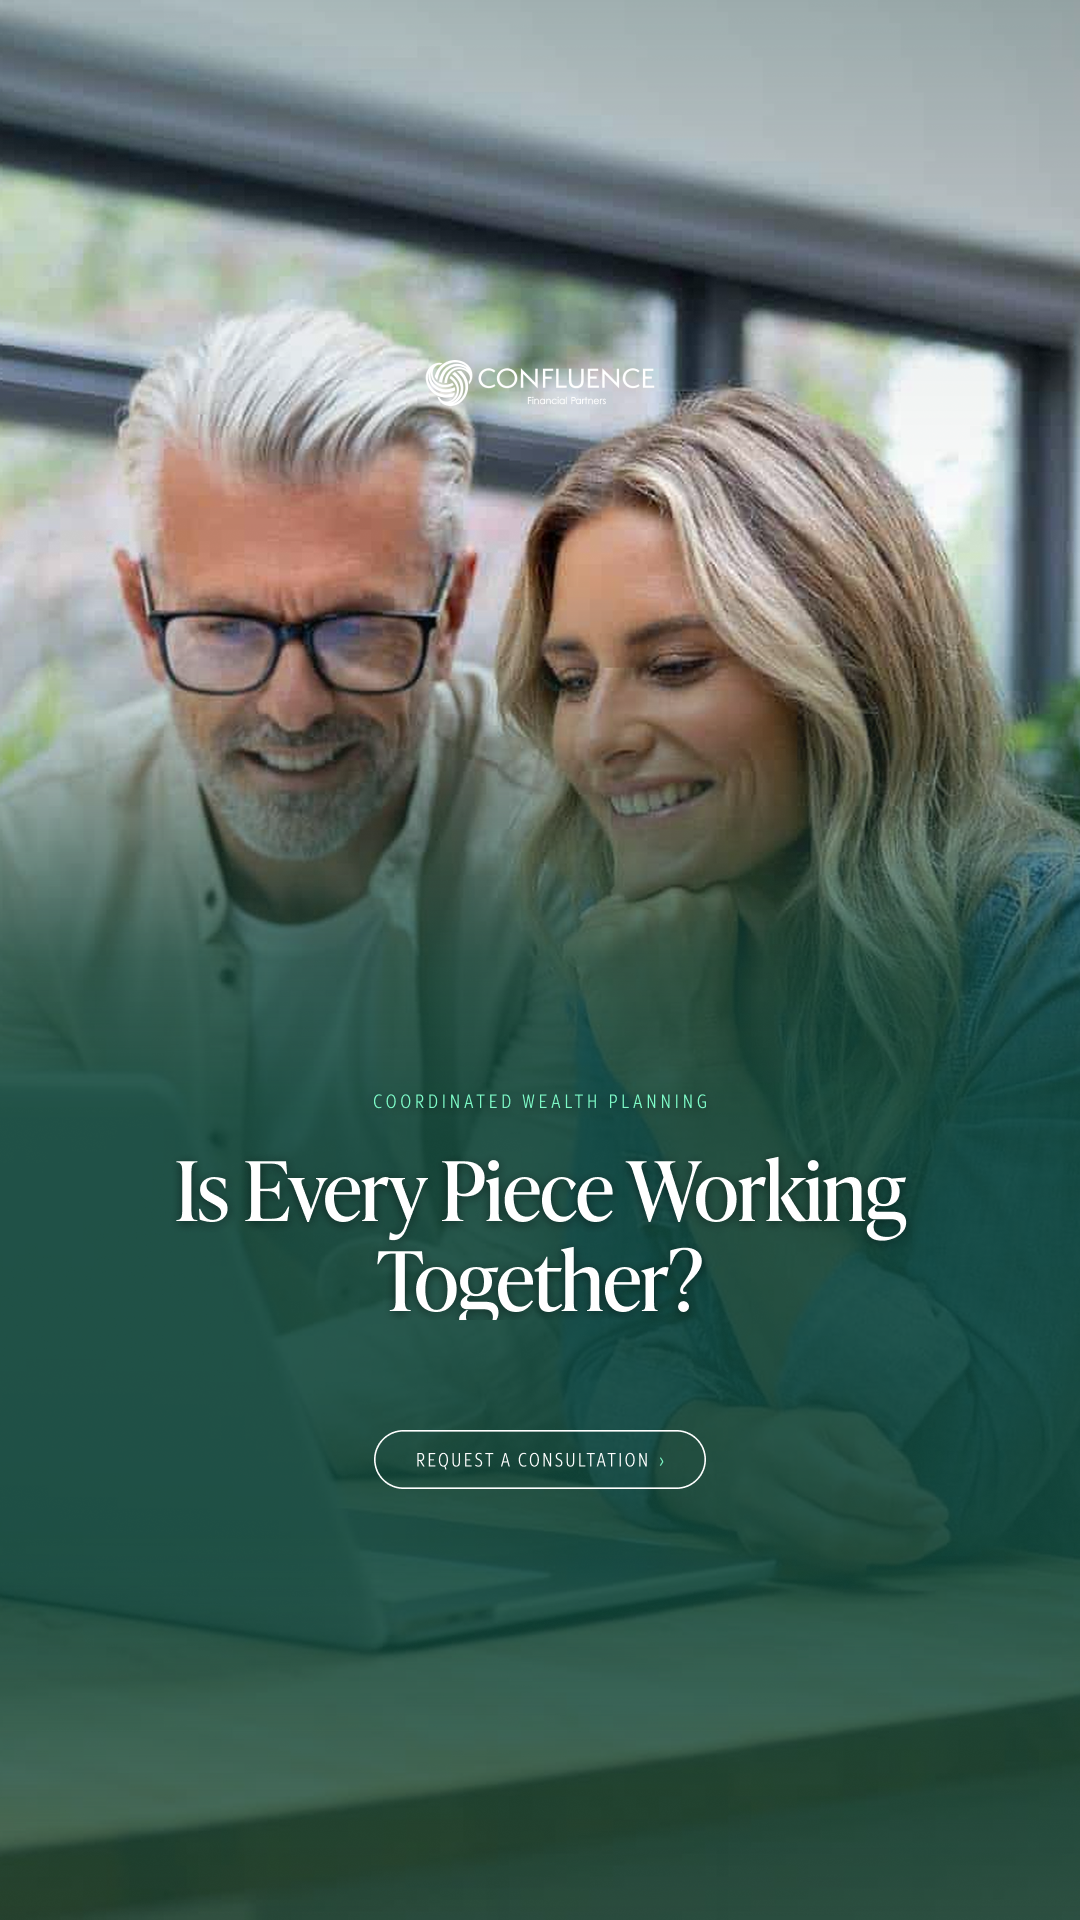
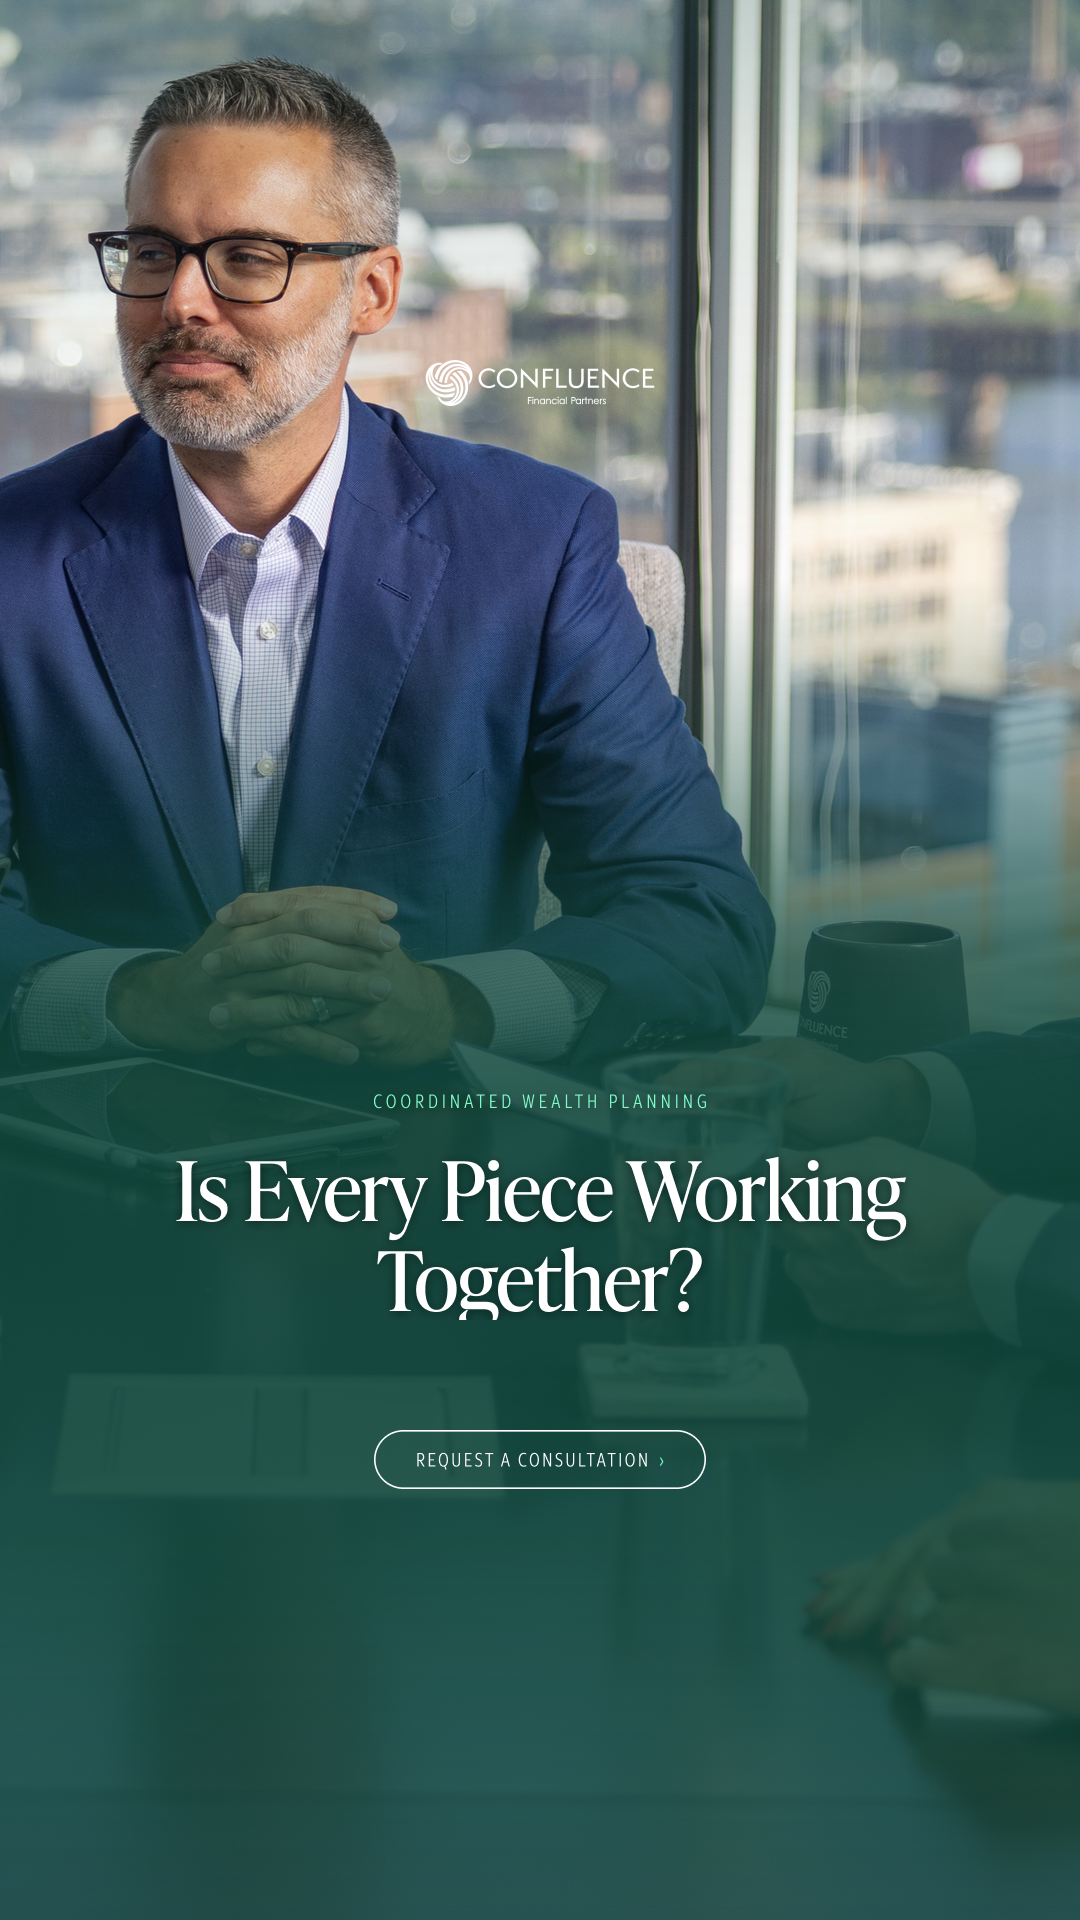
Swap stock->real branded shoot photos on T1/T2 ads
Real Confluence advisor-client shots from the branded Highlights library
replace iStock on the coordination/fiduciary ads: ad1+ad12 -> CONFLUENCE_2025-335
(team, Pittsburgh skyline, branded mugs); ad3+ad11 -> 161 (advisor+client
conversation); ad4 -> 493 (advisor perspective); carousel card3 -> 335;
+ ad1/ad3/ad4 stories. Faces-first crops, all pass text-band 4.5:1 at Standard
(0.50-1.05%). Kept stock on the lifestyle ads (see report). Cache-bust re-stamped.

diff --git a/confluence-fp-consultation/index.html b/confluence-fp-consultation/index.html
@@ -1199,7 +1199,7 @@ let _activeImageVersion = {};
 let _placementIdx = {};
 let _feedbackCache = {};
 const CAMPAIGN_ID = 'confluence-fp-consultation';
-const ASSET_V = '1785178265';  // cache-bust token, stamped at bake time
+const ASSET_V = '1785181582';  // cache-bust token, stamped at bake time
 
 // ── Utility ────────────────────────────────────────────────────────────────
 function esc(s) {
